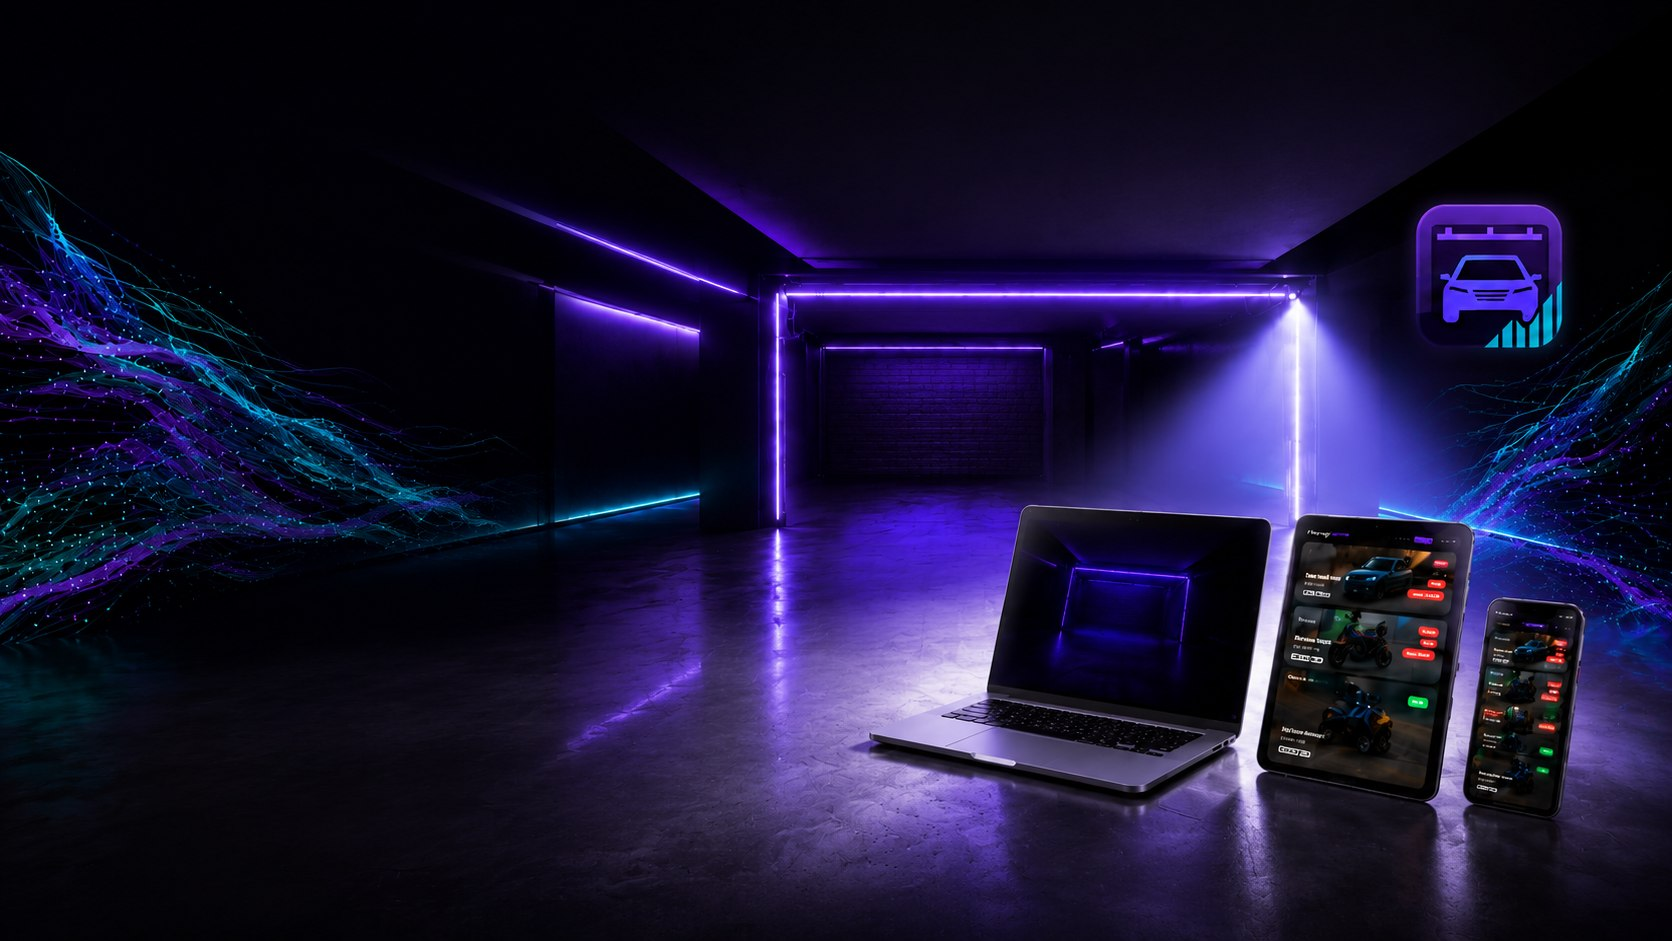
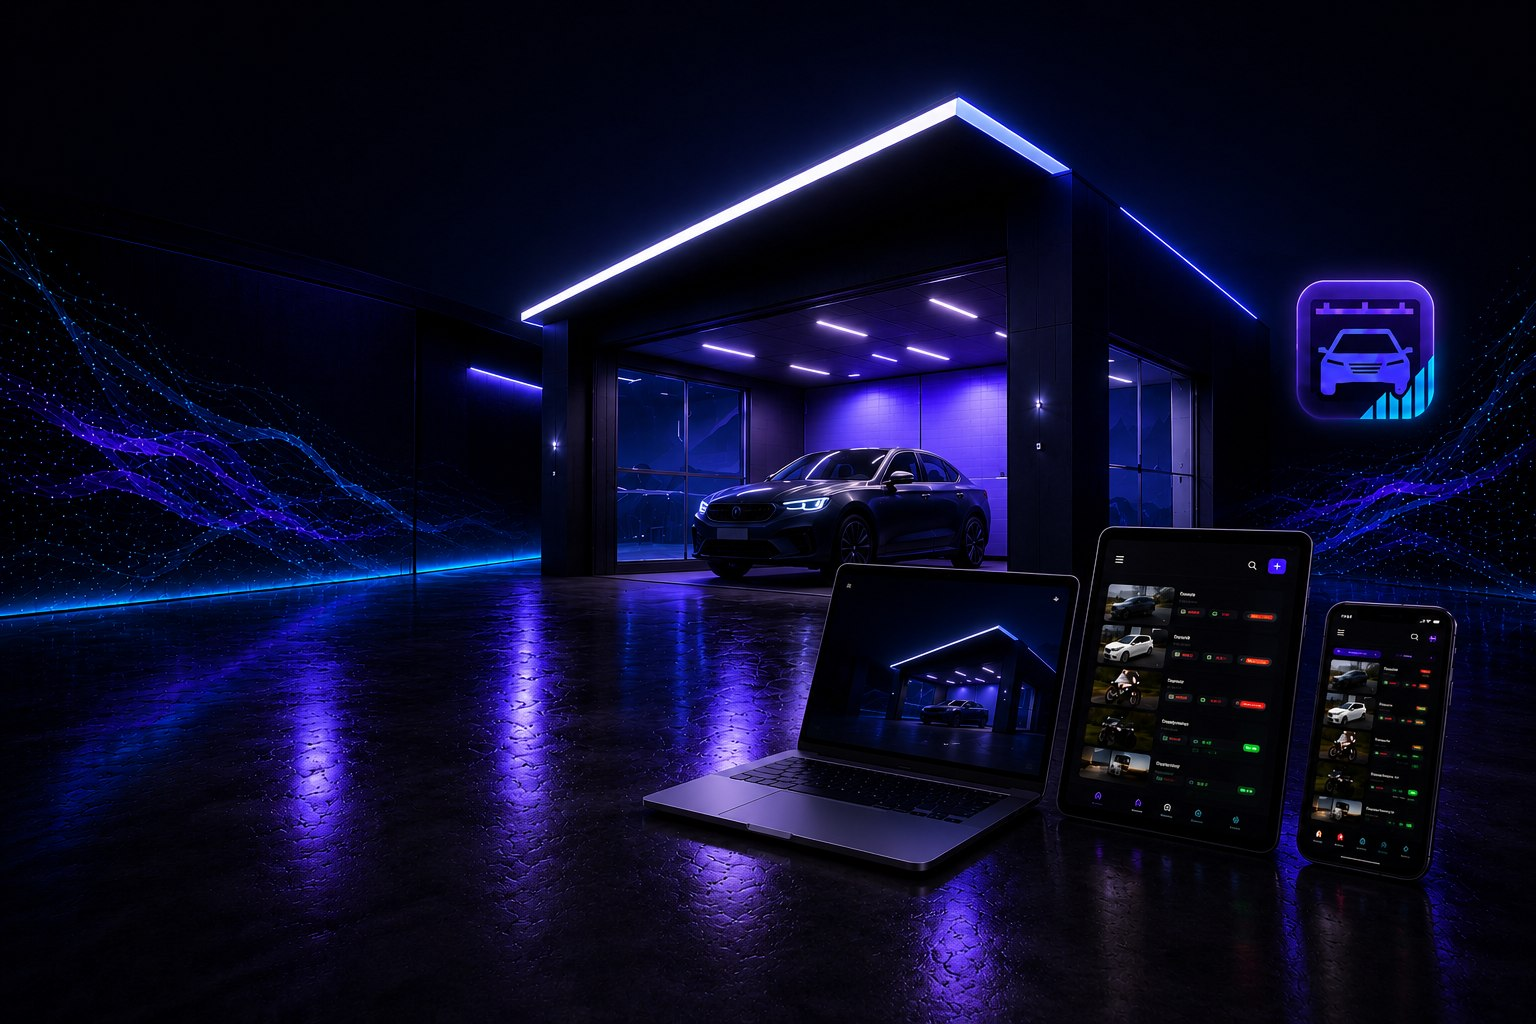
zamenjaj landing hero sliki

diff --git a/src/app/globals.css b/src/app/globals.css
@@ -318,133 +318,6 @@ body:not(.landing) {
   background: linear-gradient(to top, #f4f6ff, rgba(244,246,255,0.36), rgba(244,246,255,0));
 }
 
-.landing-device-layer {
-  position: absolute;
-  inset: 0;
-  z-index: 2;
-  pointer-events: none;
-}
-
-.landing-laptop-screen {
-  position: absolute;
-  left: 55.8%;
-  top: 51.2%;
-  width: 18.7%;
-  aspect-ratio: 1.62;
-  overflow: hidden;
-  border-radius: 0.55vw;
-  transform: rotate(4.8deg) skewX(-4deg);
-  transform-origin: center;
-  box-shadow: inset 0 0 0 1px rgba(255,255,255,0.18);
-}
-
-.landing-laptop-screen.is-dark {
-  background:
-    linear-gradient(90deg, rgba(7,7,13,0.88), rgba(7,7,13,0.30)),
-    url('/landing-hero-dark.jpg') center / cover;
-  color: #ffffff;
-}
-
-.landing-laptop-screen.is-light {
-  background:
-    linear-gradient(90deg, rgba(255,255,255,0.88), rgba(255,255,255,0.28)),
-    url('/landing-hero-light.jpg') center / cover;
-  color: #151528;
-}
-
-.landing-laptop-nav {
-  display: flex;
-  align-items: center;
-  justify-content: space-between;
-  gap: 0.8vw;
-  padding: 0.72vw 0.85vw 0.35vw;
-  font-size: clamp(0.45rem, 0.54vw, 0.72rem);
-  font-weight: 900;
-  letter-spacing: 0;
-}
-
-.landing-laptop-nav span span {
-  color: #8b5cf6;
-}
-
-.landing-laptop-nav i {
-  display: block;
-  width: 24%;
-  height: 0.42vw;
-  min-height: 5px;
-  border-radius: 999px;
-  background: #8b5cf6;
-  box-shadow: 0 0 16px rgba(139,92,246,0.45);
-}
-
-.landing-laptop-content {
-  padding: 0 0.85vw;
-}
-
-.landing-laptop-content strong {
-  display: block;
-  max-width: 78%;
-  font-size: clamp(0.62rem, 0.78vw, 1rem);
-  line-height: 1.05;
-  letter-spacing: 0;
-}
-
-.landing-laptop-content p {
-  margin-top: 0.35vw;
-  max-width: 82%;
-  font-size: clamp(0.36rem, 0.42vw, 0.54rem);
-  line-height: 1.35;
-  opacity: 0.78;
-}
-
-.landing-laptop-content div {
-  display: flex;
-  gap: 0.32vw;
-  margin-top: 0.52vw;
-}
-
-.landing-laptop-content div span {
-  min-width: 2.1vw;
-  border-radius: 0.38vw;
-  background: rgba(139,92,246,0.18);
-  padding: 0.22vw 0.28vw;
-  text-align: center;
-  font-size: clamp(0.34rem, 0.38vw, 0.5rem);
-  font-weight: 900;
-}
-
-.landing-tablet-screen,
-.landing-phone-screen {
-  position: absolute;
-  object-fit: cover;
-  object-position: top center;
-  border-radius: 1.15vw;
-  box-shadow: inset 0 0 0 1px rgba(255,255,255,0.22);
-}
-
-.landing-tablet-screen {
-  left: 76.45%;
-  top: 54.5%;
-  width: 8.55%;
-  height: 24.8%;
-  transform: rotate(3.4deg);
-}
-
-.landing-phone-screen {
-  left: 88.65%;
-  top: 57.2%;
-  width: 4.55%;
-  height: 23.6%;
-  transform: rotate(4.2deg);
-  border-radius: 1.4vw;
-}
-
-@media (max-width: 980px) {
-  .landing-device-layer {
-    display: none;
-  }
-}
-
 .light-mode .landing-copy {
   color: #151528;
 }

diff --git a/src/app/page.tsx b/src/app/page.tsx
@@ -368,7 +368,6 @@ export default function LandingPage() {
   const t = copy[language]
   const isLightTheme = theme === 'svetla'
   const heroImage = isLightTheme ? '/landing-hero-light.jpg' : '/landing-hero-dark.jpg'
-  const deviceImage = isLightTheme ? '/landing-device-light.jpg' : '/landing-device-dark.jpg'
 
   const updateTheme = (nextTheme: LandingTheme) => {
     setTheme(nextTheme)
@@ -489,23 +488,6 @@ export default function LandingPage() {
           className="landing-hero-image absolute inset-0 h-full w-full object-cover object-[66%_62%] lg:object-[center_66%]"
         />
         <div className="landing-hero-shade absolute inset-0 bg-[linear-gradient(90deg,rgba(7,7,13,0.86)_0%,rgba(7,7,13,0.70)_32%,rgba(7,7,13,0.28)_52%,rgba(7,7,13,0.04)_76%,rgba(7,7,13,0)_100%)]" />
-        <div className="landing-device-layer" aria-hidden="true">
-          <div className={`landing-laptop-screen ${isLightTheme ? 'is-light' : 'is-dark'}`}>
-            <div className="landing-laptop-nav">
-              <span>Garage<span>Base</span></span>
-              <i />
-            </div>
-            <div className="landing-laptop-content">
-              <strong>{t.title}</strong>
-              <p>{t.subtitle}</p>
-              <div>
-                {t.stats.map((item) => <span key={item.value}>{item.value}</span>)}
-              </div>
-            </div>
-          </div>
-          <img src={deviceImage} alt="" className="landing-tablet-screen" />
-          <img src={deviceImage} alt="" className="landing-phone-screen" />
-        </div>
         <div className="landing-top-fade absolute inset-x-0 top-0 h-32" />
         <div className="landing-bottom-fade absolute inset-x-0 bottom-0 h-44" />
 
